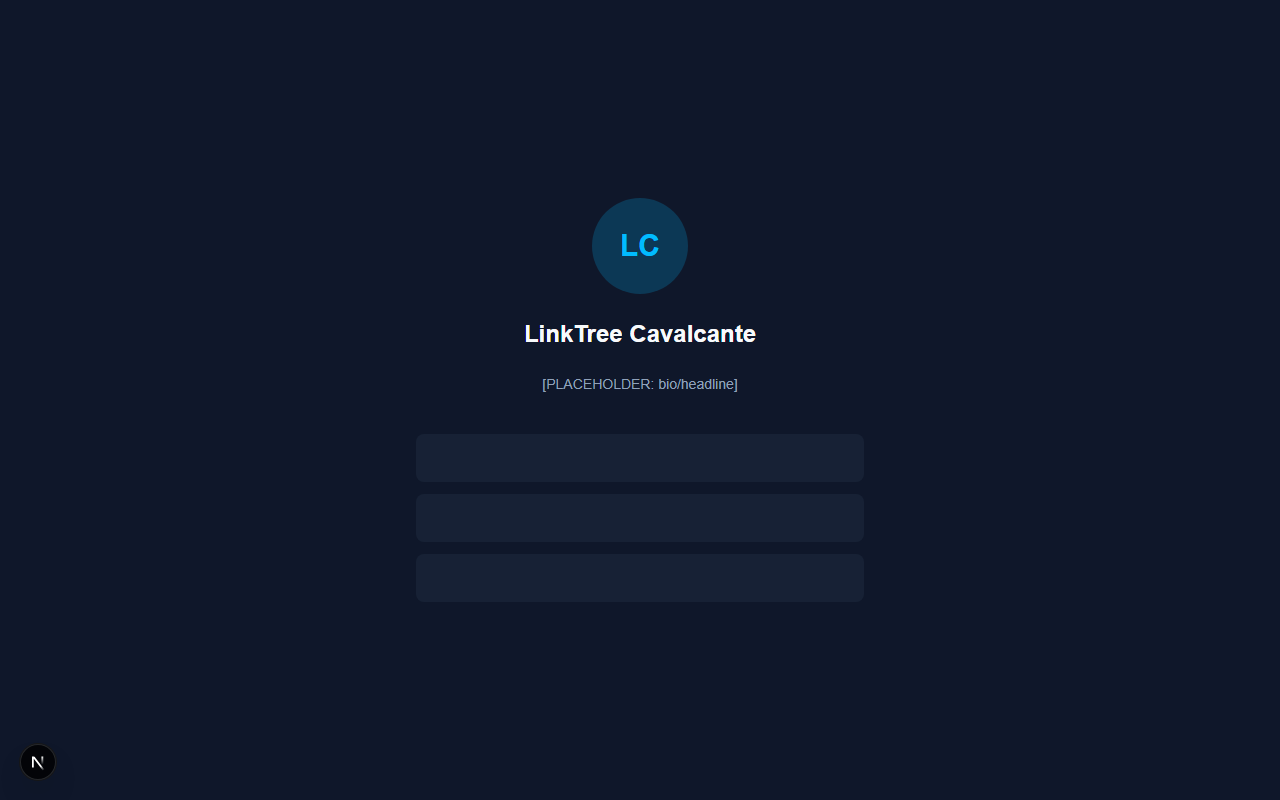
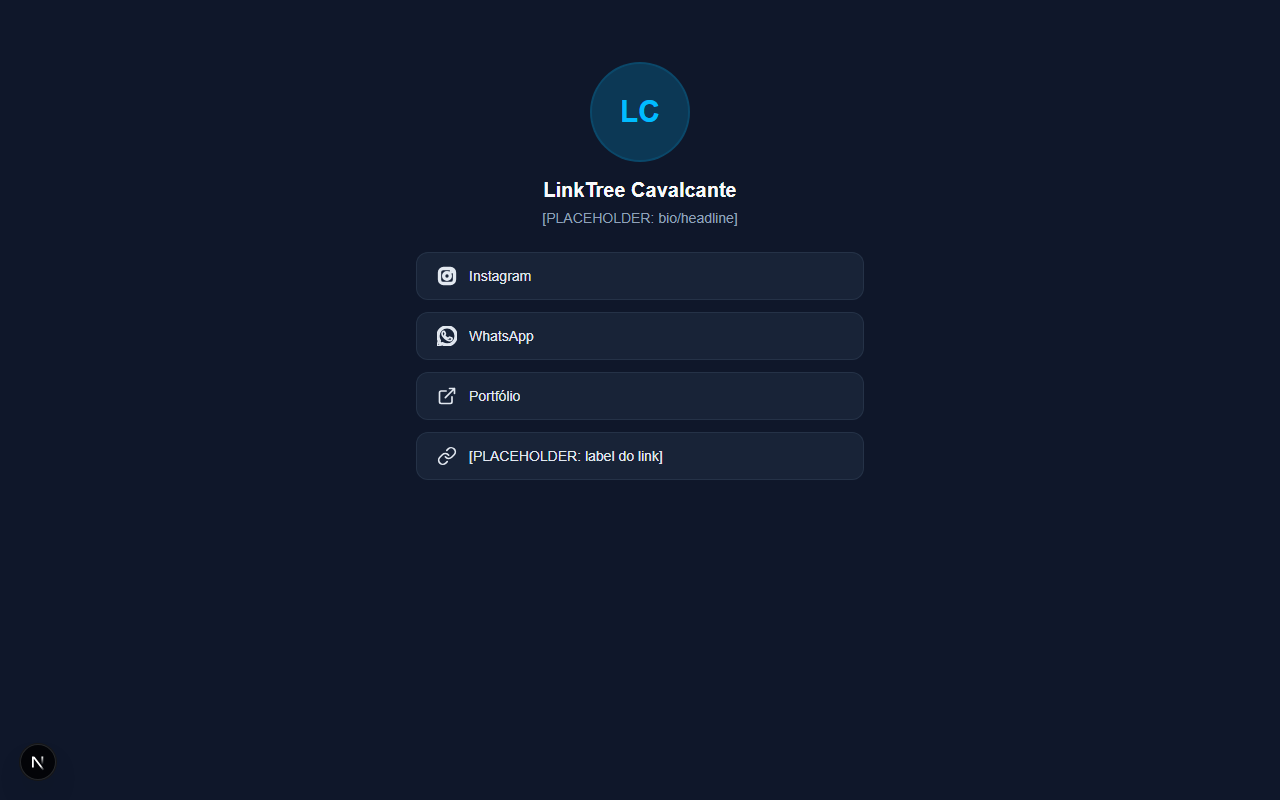
v0.2.0: pagina Linktree estatica com ProfileHeader + LinkButton

diff --git a/components/LinkButton.tsx b/components/LinkButton.tsx
@@ -1,4 +1,47 @@
-// [PLACEHOLDER] Será implementado na Etapa 2
-export default function LinkButton() {
-  return null;
+const icons: Record<string, string> = {
+  instagram: "M7.8 2h8.4A5.8 5.8 0 0 1 22 7.8v8.4a5.8 5.8 0 0 1-5.8 5.8H7.8A5.8 5.8 0 0 1 2 16.2V7.8A5.8 5.8 0 0 1 7.8 2m-.2 2A3.6 3.6 0 0 0 4 7.6v8.8A3.6 3.6 0 0 0 7.6 20h8.8a3.6 3.6 0 0 0 3.6-3.6V7.6A3.6 3.6 0 0 0 16.4 4H7.6m9.65 1.5a1.25 1.25 0 0 1 0 2.5 1.25 1.25 0 0 1 0-2.5M12 7a5 5 0 1 1 0 10 5 5 0 0 1 0-10m0 2a3 3 0 1 0 0 6 3 3 0 0 0 0-6",
+  whatsapp:
+    "M17.472 14.382c-.297-.149-1.758-.867-2.03-.967-.273-.099-.471-.148-.67.15-.197.297-.767.966-.94 1.164-.173.199-.347.223-.644.075-.297-.15-1.255-.463-2.39-1.475-.883-.788-1.48-1.761-1.653-2.059-.173-.297-.018-.458.13-.606.134-.133.298-.347.446-.52.149-.174.198-.298.298-.497.099-.198.05-.371-.025-.52-.075-.149-.669-1.612-.916-2.207-.242-.579-.487-.5-.669-.51-.173-.008-.371-.01-.57-.01-.198 0-.52.074-.792.372-.272.297-1.04 1.016-1.04 2.479 0 1.462 1.065 2.875 1.213 3.074.149.198 2.096 3.2 5.077 4.487.709.306 1.262.489 1.694.625.712.227 1.36.195 1.871.118.571-.085 1.758-.719 2.006-1.413.248-.694.248-1.289.173-1.413-.074-.124-.272-.198-.57-.347m-5.421 7.403h-.004a9.87 9.87 0 0 1-5.031-1.378l-.361-.214-3.741.982.998-3.648-.235-.374a9.86 9.86 0 0 1-1.51-5.26c.001-5.45 4.436-9.884 9.888-9.884 2.64 0 5.122 1.03 6.988 2.898a9.825 9.825 0 0 1 2.893 6.994c-.003 5.45-4.437 9.884-9.885 9.884m8.413-18.297A11.815 11.815 0 0 0 12.05 0C5.495 0 .16 5.335.157 11.892c0 2.096.547 4.142 1.588 5.945L.057 24l6.305-1.654a11.882 11.882 0 0 0 5.683 1.448h.005c6.554 0 11.89-5.335 11.893-11.893a11.821 11.821 0 0 0-3.48-8.413Z",
+  "external-link":
+    "M18 13v6a2 2 0 0 1-2 2H5a2 2 0 0 1-2-2V8a2 2 0 0 1 2-2h6m4-3h6v6m-11 5L21 3",
+  link: "M10 13a5 5 0 0 0 7.54.54l3-3a5 5 0 0 0-7.07-7.07l-1.72 1.71M14 11a5 5 0 0 0-7.54-.54l-3 3a5 5 0 0 0 7.07 7.07l1.71-1.71",
+};
+
+function Icon({ name }: { name: string }) {
+  const path = icons[name] ?? icons.link;
+  return (
+    <svg
+      viewBox="0 0 24 24"
+      fill="none"
+      stroke="currentColor"
+      strokeWidth={2}
+      strokeLinecap="round"
+      strokeLinejoin="round"
+      className="w-5 h-5 shrink-0"
+    >
+      <path d={path} />
+    </svg>
+  );
+}
+
+export default function LinkButton({
+  label,
+  url,
+  icon,
+}: {
+  label: string;
+  url: string;
+  icon?: string;
+}) {
+  return (
+    <a
+      href={url}
+      target="_blank"
+      rel="noopener noreferrer"
+      className="flex items-center gap-3 w-full h-12 px-5 rounded-xl bg-slate-800/70 border border-slate-700/50 text-slate-200 hover:bg-sky-400/10 hover:border-sky-400/30 hover:text-sky-300 transition-all duration-200"
+    >
+      {icon && <Icon name={icon} />}
+      <span className="text-sm font-medium">{label}</span>
+    </a>
+  );
 }

diff --git a/components/ProfileHeader.tsx b/components/ProfileHeader.tsx
@@ -1,4 +1,36 @@
-// [PLACEHOLDER] Será implementado na Etapa 2
-export default function ProfileHeader() {
-  return null;
+export default function ProfileHeader({
+  avatar,
+  name,
+  bio,
+}: {
+  avatar?: string;
+  name: string;
+  bio: string;
+}) {
+  const initials = name
+    .split(" ")
+    .map((w) => w[0])
+    .join("")
+    .slice(0, 2)
+    .toUpperCase();
+
+  return (
+    <div className="flex flex-col items-center gap-4 text-center">
+      {avatar ? (
+        <img
+          src={avatar}
+          alt={name}
+          className="w-24 h-24 rounded-full object-cover ring-2 ring-sky-400/50"
+        />
+      ) : (
+        <div className="w-24 h-24 rounded-full bg-sky-400/20 flex items-center justify-center text-sky-400 text-3xl font-bold ring-2 ring-sky-400/30">
+          {initials}
+        </div>
+      )}
+      <div className="space-y-1">
+        <h1 className="text-xl font-bold text-slate-50">{name}</h1>
+        <p className="text-sm text-slate-400 max-w-xs">{bio}</p>
+      </div>
+    </div>
+  );
 }

diff --git a/app/page.tsx b/app/page.tsx
@@ -1,20 +1,24 @@
+import ProfileHeader from "@/components/ProfileHeader";
+import LinkButton from "@/components/LinkButton";
+import { links } from "@/config/links.config";
+
 export default function Home() {
   return (
-    <div className="flex flex-col items-center justify-center min-h-dvh px-4">
+    <div className="flex flex-col items-center min-h-dvh px-4">
       <main className="flex flex-col items-center w-full max-w-md gap-6 py-16">
-        <div className="w-24 h-24 rounded-full bg-sky-400/20 flex items-center justify-center text-sky-400 text-3xl font-bold">
-          LC
-        </div>
-        <h1 className="text-2xl font-bold text-center text-slate-50">
-          LinkTree Cavalcante
-        </h1>
-        <p className="text-sm text-slate-400 text-center max-w-xs">
-          [PLACEHOLDER: bio/headline]
-        </p>
-        <div className="w-full flex flex-col gap-3 mt-4">
-          <div className="h-12 rounded-lg bg-slate-800 animate-pulse" />
-          <div className="h-12 rounded-lg bg-slate-800 animate-pulse" />
-          <div className="h-12 rounded-lg bg-slate-800 animate-pulse" />
+        <ProfileHeader
+          name="LinkTree Cavalcante"
+          bio="[PLACEHOLDER: bio/headline]"
+        />
+        <div className="w-full flex flex-col gap-3">
+          {links.map((link) => (
+            <LinkButton
+              key={link.label}
+              label={link.label}
+              url={link.url}
+              icon={link.icon}
+            />
+          ))}
         </div>
       </main>
     </div>

diff --git a/config/links.config.ts b/config/links.config.ts
@@ -2,6 +2,32 @@ export interface LinkItem {
   label: string;
   url: string;
   shortCode?: string;
+  icon?: string;
 }
 
-export const links: LinkItem[] = [];
+export const links: LinkItem[] = [
+  {
+    label: "Instagram",
+    url: "https://instagram.com/[PLACEHOLDER_USERNAME]",
+    shortCode: "ig",
+    icon: "instagram",
+  },
+  {
+    label: "WhatsApp",
+    url: "https://wa.me/[PLACEHOLDER_NUMERO]",
+    shortCode: "wpp",
+    icon: "whatsapp",
+  },
+  {
+    label: "Portfólio",
+    url: "https://cavalcanteprofissional.github.io/portfolio",
+    shortCode: "portfolio",
+    icon: "external-link",
+  },
+  {
+    label: "[PLACEHOLDER: label do link]",
+    url: "[PLACEHOLDER: URL do link]",
+    shortCode: "[PLACEHOLDER: shortcode]",
+    icon: "link",
+  },
+];

diff --git a/config/shortener-static.config.ts b/config/shortener-static.config.ts
@@ -1,0 +1,6 @@
+export const staticShortLinks: Record<string, string> = {
+  ig: "https://instagram.com/[PLACEHOLDER_USERNAME]",
+  wpp: "https://wa.me/[PLACEHOLDER_NUMERO]",
+  portfolio: "https://cavalcanteprofissional.github.io/portfolio",
+  "[PLACEHOLDER: shortcode]": "[PLACEHOLDER: URL]",
+};

diff --git a/TODO.md b/TODO.md
@@ -69,14 +69,24 @@ O MCP GitHub estará disponível em **qualquer projeto**. Ao reiniciar, vou exec
 
 ---
 
-## Etapa 2: Página Linktree Estática (🏁 PRÓXIMA)
-- [ ] Popular `config/links.config.ts` com links reais do `CONTENT.md`
-- [ ] Criar arquivo `config/shortener-static.config.ts` — mapa estático `short_code → URL`
-- [ ] Implementar `components/ProfileHeader.tsx` (avatar + bio + headline)
-- [ ] Implementar `components/LinkButton.tsx` (botão de link com ícone + label)
-- [ ] Atualizar `app/page.tsx` para consumir `links.config.ts` e renderizar ProfileHeader + LinkButton
-- [ ] Layout responsivo: mobile (375px) + tablet (768px) + desktop (1280px)
-- [ ] Validação Playwright: screenshots + DOM
+## Etapa 2: Página Linktree Estática ✅
+
+- [x] Popular `config/links.config.ts` com links (placeholders: Instagram, WhatsApp, Portfólio, + extra)
+- [x] Criar `config/shortener-static.config.ts` — mapa estático `short_code → URL`
+- [x] Implementar `components/ProfileHeader.tsx` (avatar com iniciais + bio + nome)
+- [x] Implementar `components/LinkButton.tsx` (botão de link com SVG inline + label, hover sky-400)
+- [x] Refatorar `app/page.tsx` para consumir ProfileHeader + LinkButton + `links.config.ts`
+- [x] Layout responsivo: mobile-first (max-w-md) + centralizado
+- [x] Validação Playwright: 4 link buttons renderizados, 0 skeletons, h1 + bio ok
+
+---
+
+## Etapa 3: Rota `/[shortcode]` com Fallback Estático (🏁 PRÓXIMA)
+- [ ] Criar `app/[shortcode]/route.ts` — rota dinâmica de redirect
+- [ ] Implementar lógica de resolução em `lib/shortener.ts` (fallback `staticShortLinks`)
+- [ ] Adicionar analytics fire-and-forget (`POST /api/analytics`)
+- [ ] Criar `app/api/analytics/route.ts` — endpoint no-op quando sem Supabase
+- [ ] Testar redirect real via Playwright (status 302) + fallback 404
 
 ---
 

diff --git a/CHANGELOG.md b/CHANGELOG.md
@@ -7,6 +7,26 @@ e este projeto adere ao [Semantic Versioning](https://semver.org/spec/v2.0.0.htm
 
 ---
 
+## [0.2.0] — 2026-07-20
+
+### Adicionado
+
+- **ProfileHeader** — avatar com iniciais (fallback se sem imagem), nome e bio
+- **LinkButton** — botão de link com ícone SVG inline, hover state (sky-400), altura 48px (acessível)
+- **Página Linktree dinâmica** — consome `links.config.ts` e renderiza ProfileHeader + LinkButton
+- **`config/shortener-static.config.ts`** — mapa estático `short_code → URL` para fallback do encurtador
+
+### Alterado
+
+- `config/links.config.ts` populado com 4 links (Instagram, WhatsApp, Portfólio, + placeholder extra)
+- `app/page.tsx` refatorado para usar `@/components/ProfileHeader` e `@/components/LinkButton`
+- `scripts/validate.mjs` atualizado para testar Etapa 2 (link buttons, ausência de skeletons)
+
+### Validação
+
+- Build limpo com TypeScript check
+- Playwright: 4 link buttons renderizados em mobile e desktop, h1 ok, dark mode ok, 0 skeletons
+
 ## [0.1.0] — 2026-07-20
 
 ### Adicionado
@@ -36,7 +56,6 @@ e este projeto adere ao [Semantic Versioning](https://semver.org/spec/v2.0.0.htm
 ### Pendente para próximas versões
 
 - [ ] Deploy inicial na Vercel (manual)
-- [ ] Página Linktree estática com links reais (Etapa 2)
 - [ ] Rota `/[shortcode]` com redirecionamento (Etapa 3)
 - [ ] Projeto Supabase + schemas SQL (Etapa 4)
 - [ ] Analytics real com Supabase (Etapa 5)